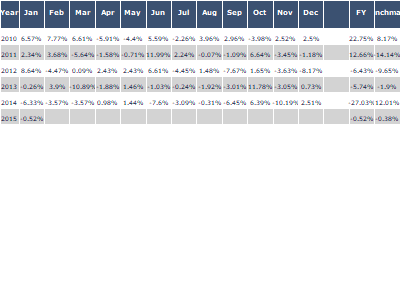
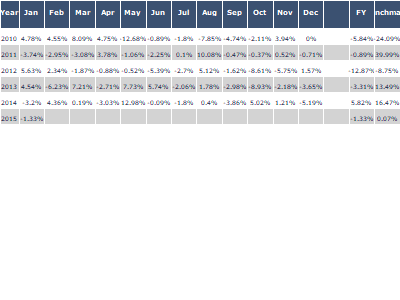
Version 38

diff --git a/README.md b/README.md
@@ -38,26 +38,26 @@ financial time series.
 
   # Including Benchmark Returns
   df<-mperf_table(da,ts_format="returns")  
-#>   Year    Jan     Feb    Mar    Apr    May    Jun    Jul    Aug    Sep    Oct
-#> 1 2007 -4.89%   7.74% -1.21% -0.77%  8.56% -3.59% -3.62%  3.05%  8.33%  5.36%
-#> 2 2008 -2.87%   6.33%  3.29%  5.24% -0.49% -6.08%  3.22%  2.94% -6.13% -2.19%
-#> 3 2009  4.17%   0.11% -8.36%  4.23%  -4.1%  5.69%  13.1%  1.75% -5.14%   3.3%
-#> 4 2010 -3.08%  -0.85% -2.46%  0.14% -0.61%  1.81%  0.36% -2.32%  -1.1% -0.86%
-#> 5 2011  -3.5%  -3.51% -5.09% -2.87%  2.07%  6.44%  2.73% -2.71% -0.74%  -2.4%
-#> 6 2012  1.72%  -5.15%  5.16%  0.13% -0.39% -2.68%  1.39%  -5.6%  5.75%  -6.3%
-#> 7 2013  1.29% -12.84%  0.67% -2.02%  -8.1% -8.65%  5.03% -2.88% -6.71%  0.66%
-#> 8 2014  4.52%   9.33% 13.27% -8.29%  3.68% 14.03% -3.91% -9.21% 11.05%  4.31%
-#> 9 2015 -0.13%                                                                
-#>       Nov    Dec       FY Benchmark
-#> 1 -10.63%  1.88%    8.51%    -3.13%
-#> 2   1.32%  7.22%    11.2%    -18.1%
-#> 3    3.7%  2.54%   21.06%     27.8%
-#> 4  -3.24%  2.46%   -9.51%   -15.42%
-#> 5   2.43%  1.93%    -5.7%     3.19%
-#> 6  10.71% -2.81%    0.49%     6.42%
-#> 7   3.39%  5.51%  -23.61%    14.85%
-#> 8  -2.88% -4.95%   30.91%    11.86%
-#> 9                  -0.13%    -2.07%
+#>   Year    Jan    Feb     Mar    Apr    May    Jun     Jul    Aug    Sep    Oct
+#> 1 2007 -2.46% -5.36% -12.16%  3.38% -7.05% -1.69% -10.34%  0.85% -1.94%  6.12%
+#> 2 2008 -4.88% -7.85%  -7.99% -0.33%   0.7% -1.31%  -6.23%  4.27% -3.01% -3.31%
+#> 3 2009   2.1% -7.29%  -3.41% -2.95%  8.31%  4.59%  -1.08%  1.41%  8.84%  5.67%
+#> 4 2010  3.74%  4.72%   7.03%  0.66% -6.96%  0.61%  -0.74%  0.94%   6.4% -2.31%
+#> 5 2011 -4.19% -5.42%   4.27% -2.49% -3.91% -6.93%  -0.68%  5.61% -0.55%  1.62%
+#> 6 2012 -4.87% -7.93%   4.22% -3.94%  1.23% -3.76% -10.39% 19.45% -5.64% -9.12%
+#> 7 2013 -0.07% -6.49%    5.4%  1.79%  6.27%  6.08%   1.73% -6.54% -5.16%  4.37%
+#> 8 2014 -0.92% -4.83% -10.68%  2.55%  5.59% -5.37%  -5.86% -0.94% -1.12%  9.88%
+#> 9 2015  0.64%                                                                 
+#>      Nov    Dec       FY Benchmark
+#> 1  8.25% -6.72%  -27.22%   -13.15%
+#> 2 -5.84% -4.22%  -33.94%    28.35%
+#> 3 -3.55%  6.04%   18.62%    -9.35%
+#> 4 -3.04% -8.29%    1.45%    17.11%
+#> 5  8.17%  1.43%   -4.19%    -6.15%
+#> 6  1.75% -2.25%     -22%   -12.01%
+#> 7 -5.38%  1.07%    1.73%    -8.17%
+#> 8 -3.68% -0.57%  -16.25%    35.92%
+#> 9                  0.64%     0.08%
 
   #Excluding Benchmark Returns  
   df<-mperf_table(da[,c("date","asset_ret")],ts_format="returns",print_output=F)
@@ -140,16 +140,16 @@ df<-dRawdowns(da,ret_format='returns',graphics=F)
 
 # Some example output
 df$longest_drawdown
-#> Time difference of 1432 days
+#> Time difference of 1085 days
 df$longest_peak2trough
-#> Time difference of 1185 days
+#> Time difference of 789 days
 # Count number of drawdowns with a trough below threshold value
 df$n
 #>   ranges observations
-#> 1   0.00           11
-#> 2  -0.05            2
-#> 3  -0.10            2
-#> 4  -0.20            2
+#> 1   0.00           18
+#> 2  -0.05            6
+#> 3  -0.10            3
+#> 4  -0.20            1
 #> 5  -0.30            1
 #> 6  -0.40            1
 #> 7  -0.50            0
@@ -256,4 +256,4 @@ The package depends on the following packages:
 
 lubridate, fredr, ecm, ggplot2, dplyr, scales, fredr, purrr,
 PortfolioAnalytics, ecm, plotly, tidyverse, caTools, zoo, data.table,
-tibble, library
+tibble
